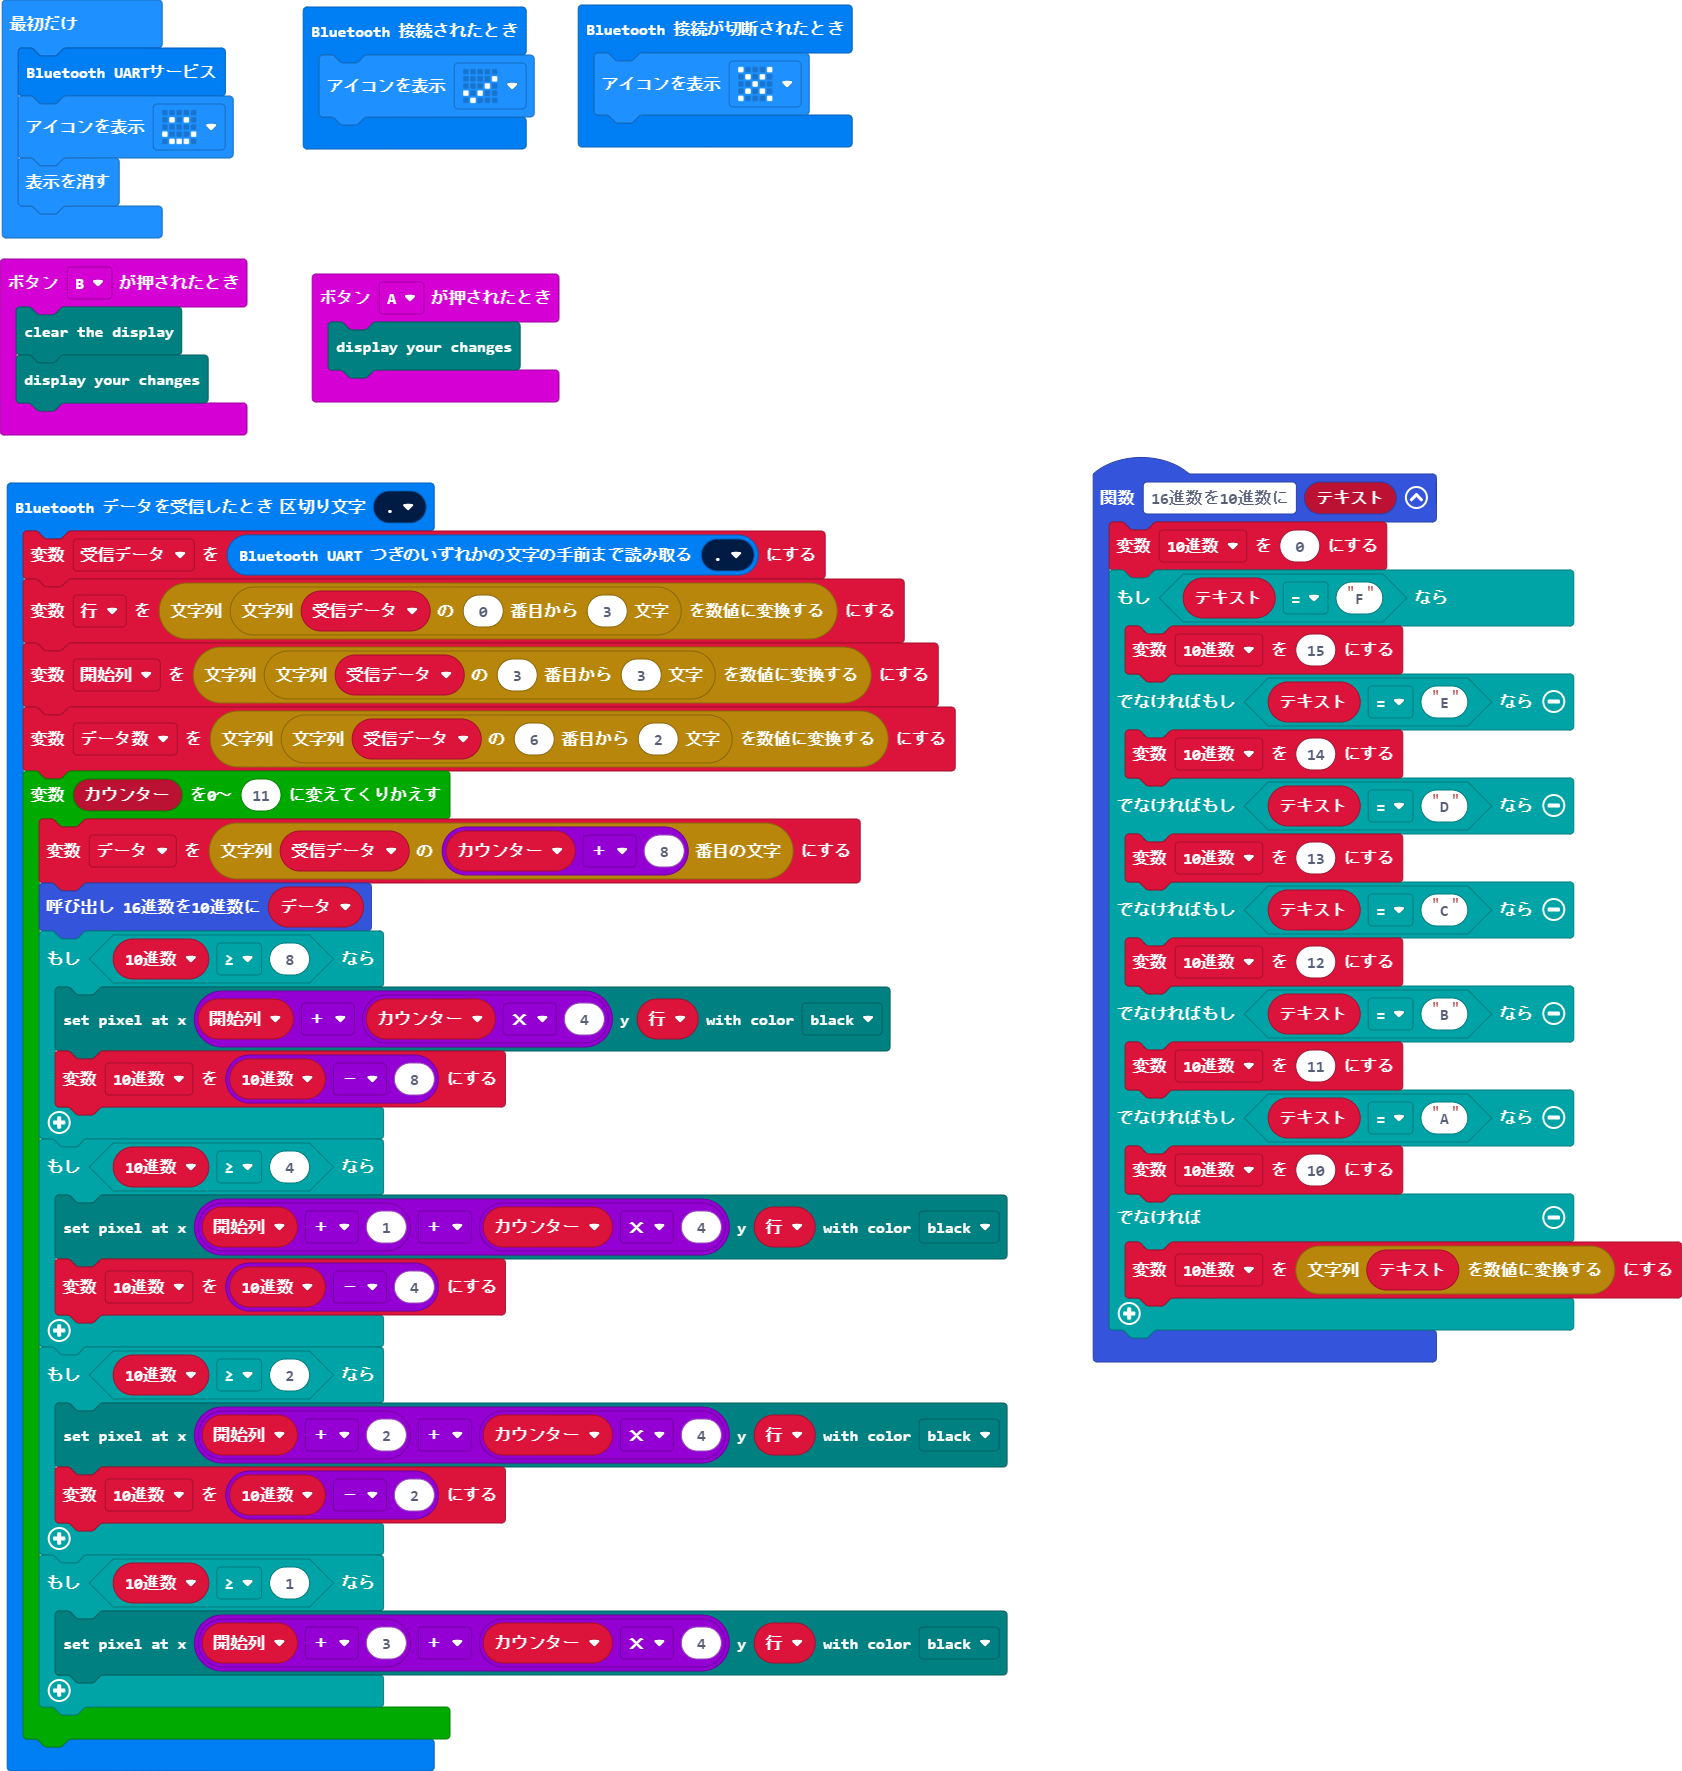
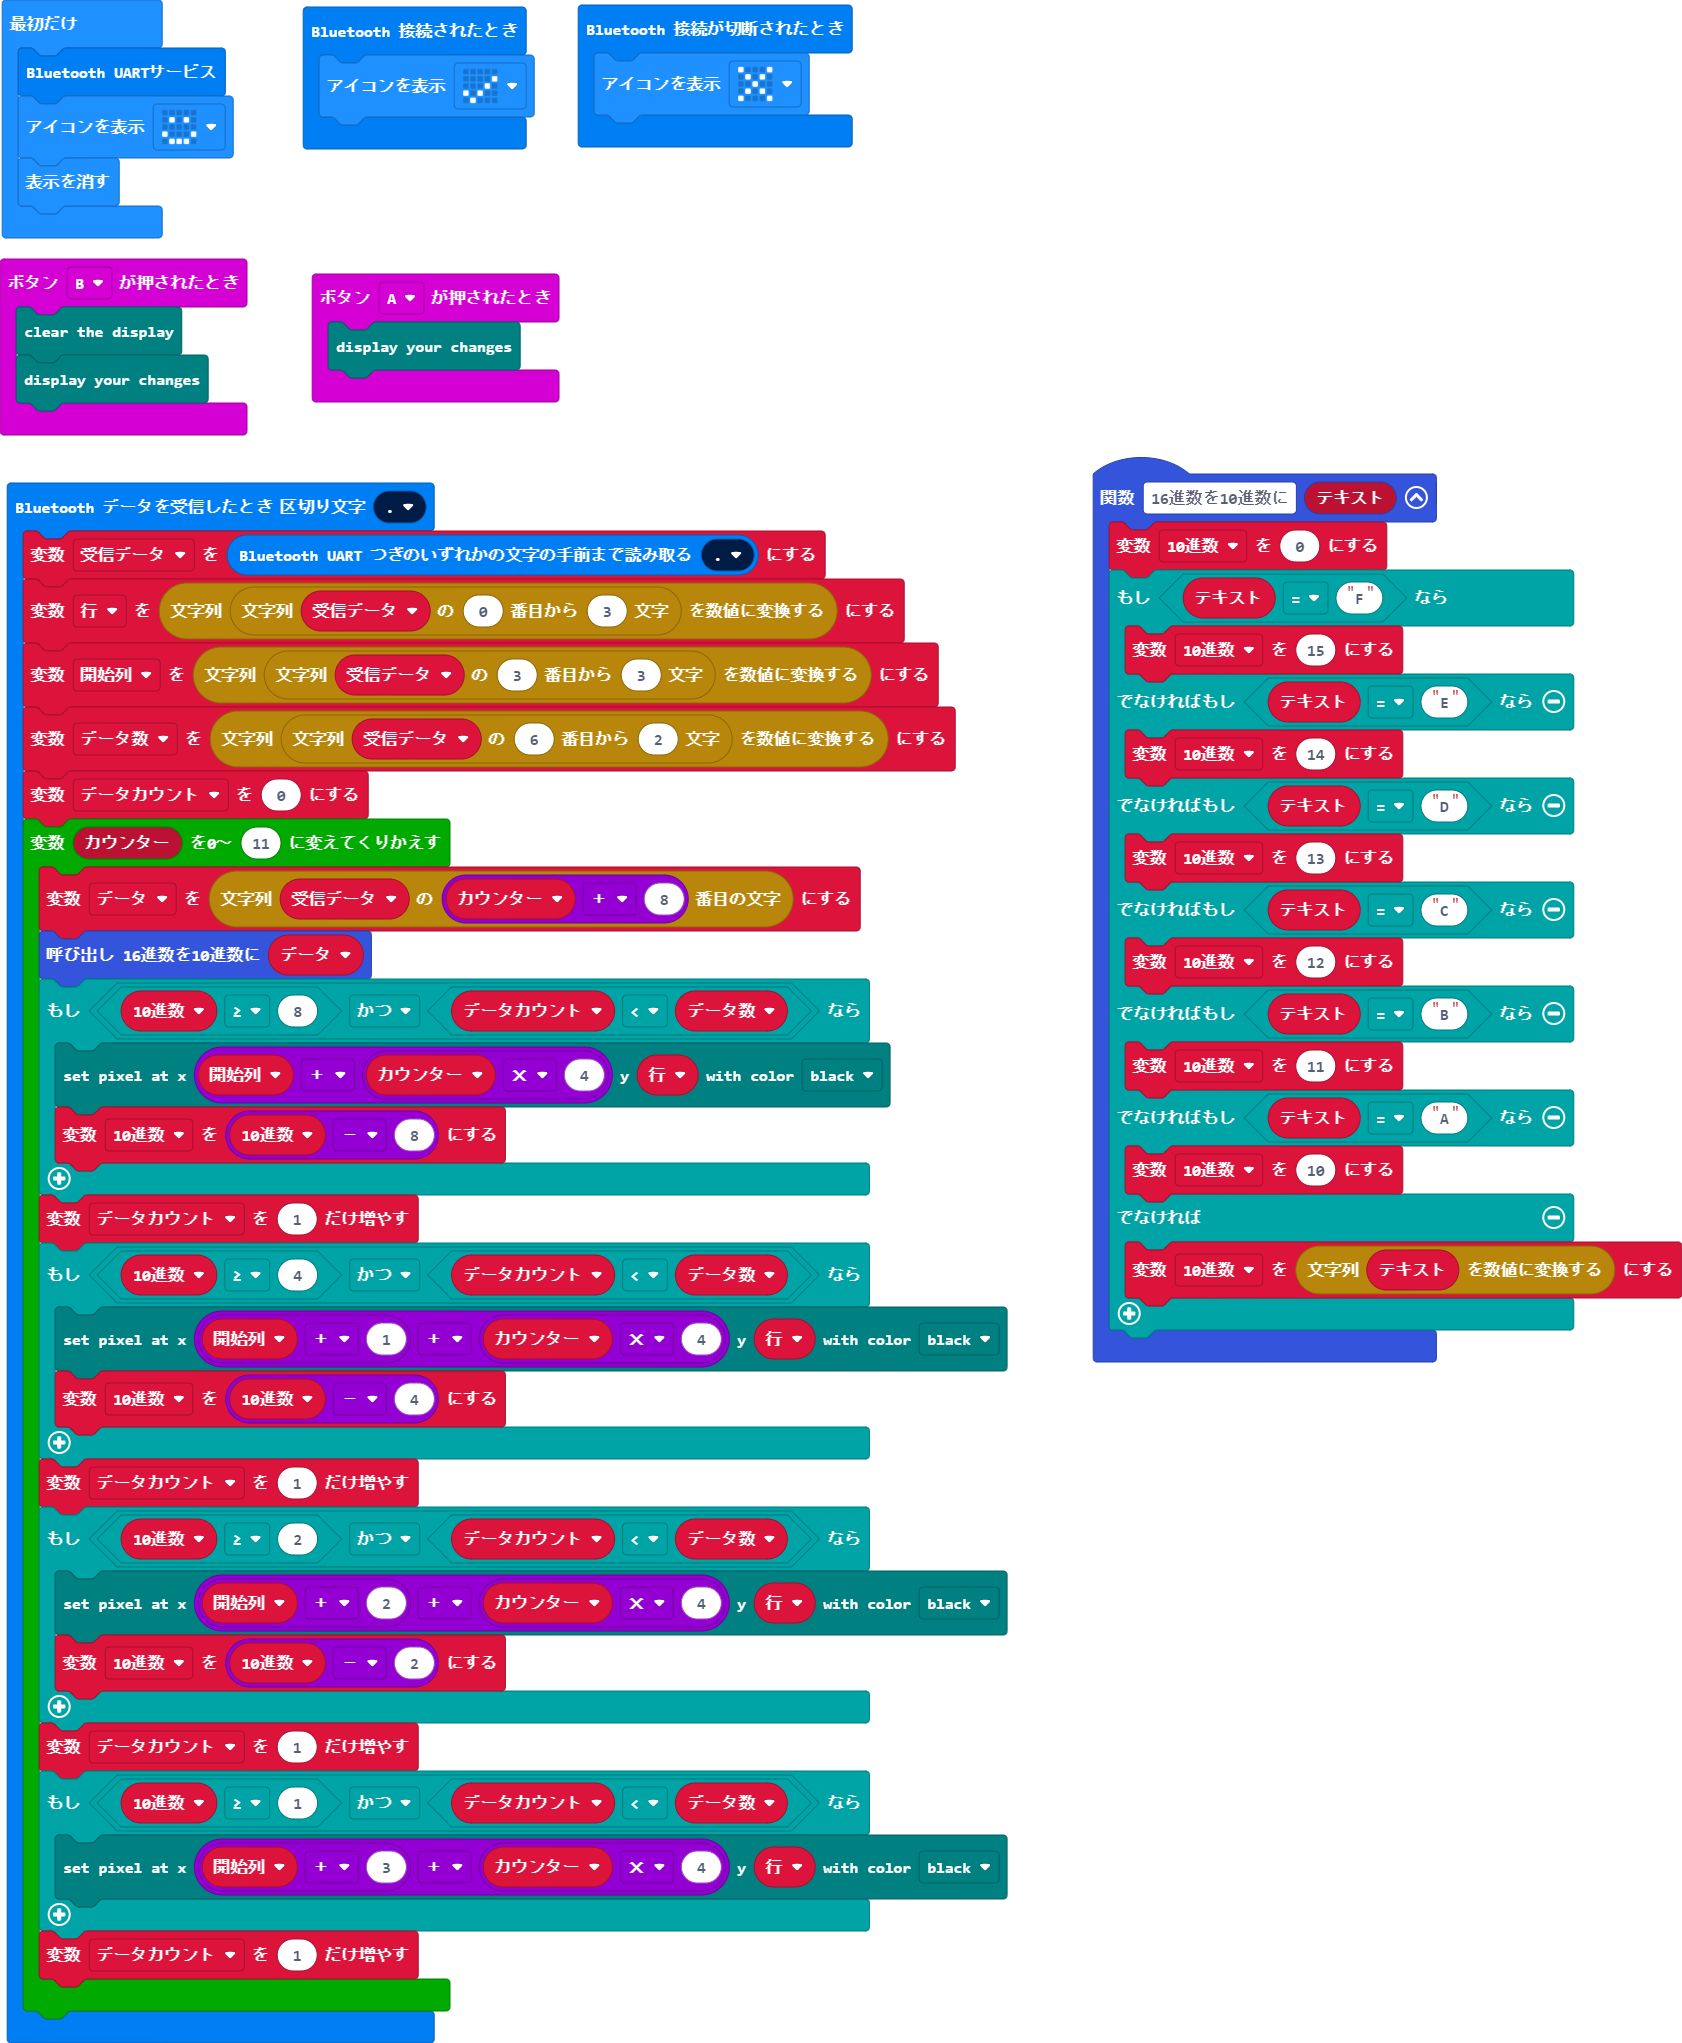
更新 main.blocks, main.ts

diff --git a/main.ts b/main.ts
@@ -12,24 +12,29 @@ bluetooth.onUartDataReceived(serial.delimiters(Delimiters.Fullstop), function ()
     行 = parseFloat(受信データ.substr(0, 3))
     開始列 = parseFloat(受信データ.substr(3, 3))
     データ数 = parseFloat(受信データ.substr(6, 2))
+    データカウント = 0
     for (let カウンター = 0; カウンター <= 11; カウンター++) {
         データ = 受信データ.charAt(カウンター + 8)
         _16進数を10進数に(データ)
-        if (_10進数 >= 8) {
+        if (_10進数 >= 8 && データカウント < データ数) {
             inkybit.setPixel(開始列 + カウンター * 4, 行, inkybit.Color.Black)
             _10進数 = _10進数 - 8
         }
-        if (_10進数 >= 4) {
+        データカウント += 1
+        if (_10進数 >= 4 && データカウント < データ数) {
             inkybit.setPixel(開始列 + 1 + カウンター * 4, 行, inkybit.Color.Black)
             _10進数 = _10進数 - 4
         }
-        if (_10進数 >= 2) {
+        データカウント += 1
+        if (_10進数 >= 2 && データカウント < データ数) {
             inkybit.setPixel(開始列 + 2 + カウンター * 4, 行, inkybit.Color.Black)
             _10進数 = _10進数 - 2
         }
-        if (_10進数 >= 1) {
+        データカウント += 1
+        if (_10進数 >= 1 && データカウント < データ数) {
             inkybit.setPixel(開始列 + 3 + カウンター * 4, 行, inkybit.Color.Black)
         }
+        データカウント += 1
     }
 })
 input.onButtonPressed(Button.B, function () {
@@ -56,6 +61,7 @@ function _16進数を10進数に (テキスト: string) {
 }
 let _10進数 = 0
 let データ = ""
+let データカウント = 0
 let データ数 = 0
 let 開始列 = 0
 let 行 = 0
